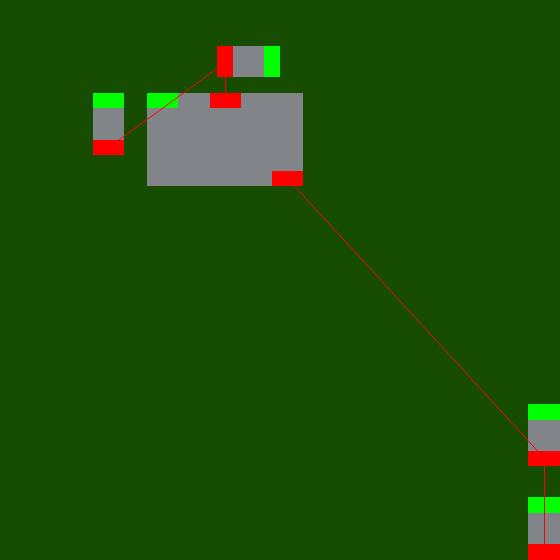
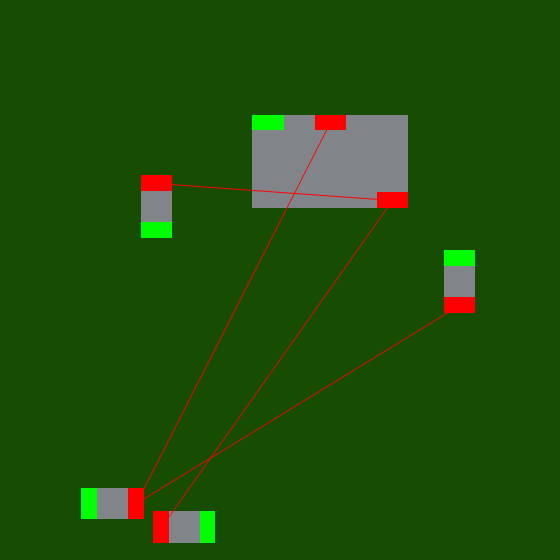
fixed overlap bug

diff --git a/pcb-layout/src/plcmnt.rs b/pcb-layout/src/plcmnt.rs
@@ -256,7 +256,7 @@ pub fn hpwl(comps: &Vec<Component>) -> f64 {
     let mut min_y = 100000.0;
     let mut pin_by_node: BTreeMap<i32, Vec<&Pin>> = BTreeMap::new();
     let mut total_wl = 0.0;
-    let ignore_gnd = false;
+    let ignore_gnd = true;
     for i in comps {
         for pin in &i.pins {
             if ignore_gnd && pin.net != 11 {

diff --git a/pcb-layout/src/ga.rs b/pcb-layout/src/ga.rs
@@ -152,6 +152,8 @@ impl Individual {
             }
         } else {
             self.move_comp(b, old_b_loc.0, old_b_loc.1);
+            let a_comp = &mut (self.comp_list[a - 1]);
+            a_comp.move_to(old_a_loc.0, old_a_loc.1);
         }
         true
     }
